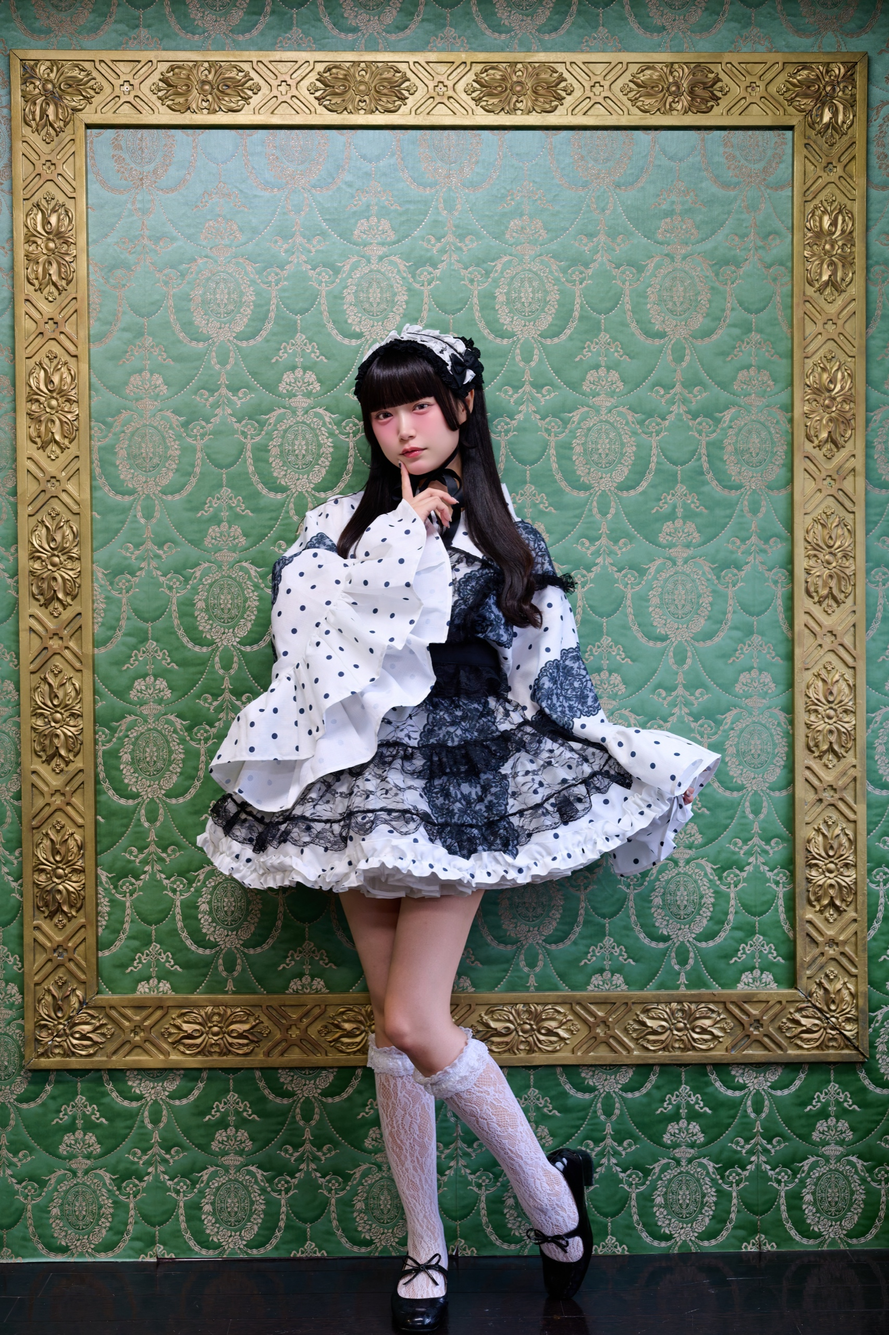
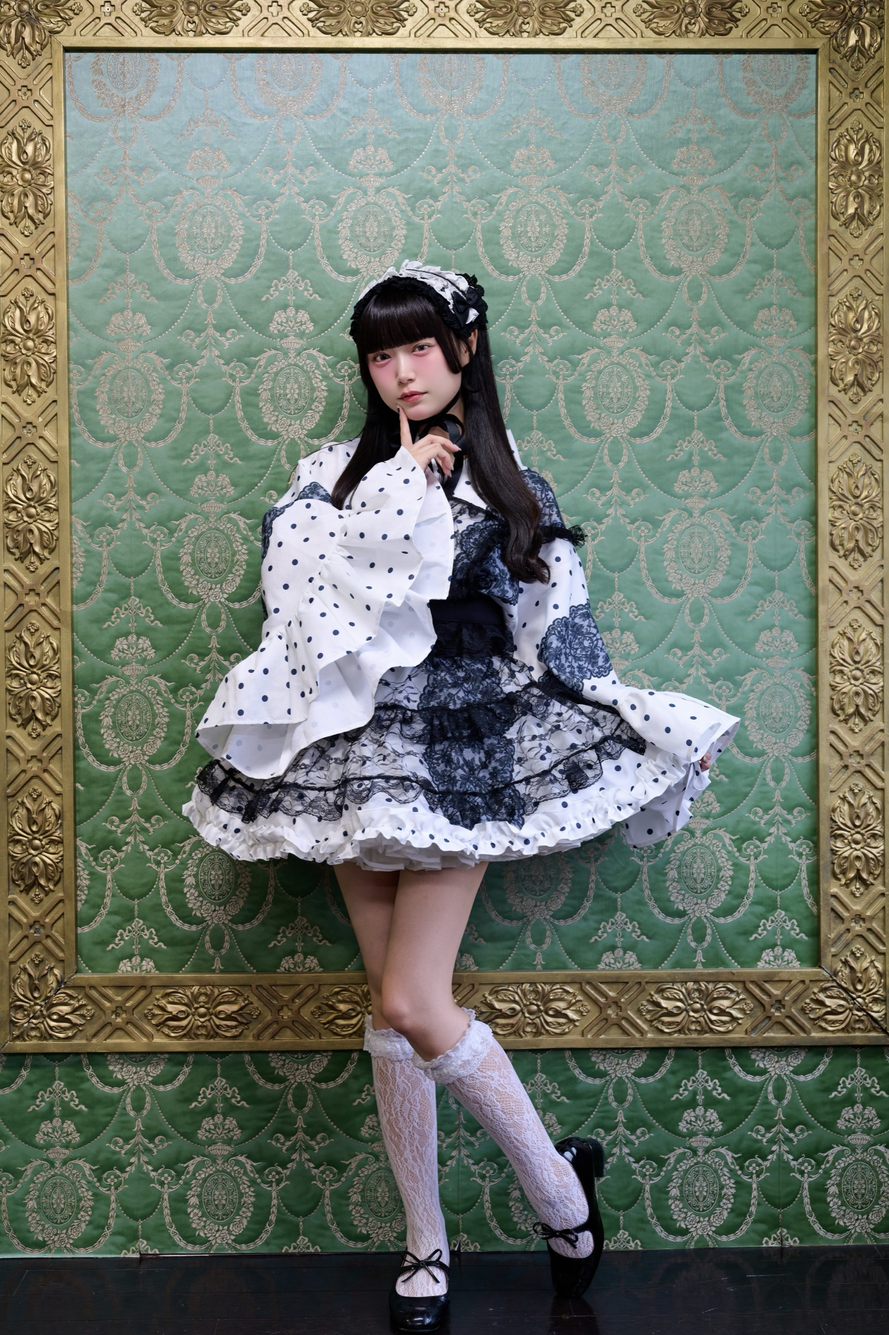
replace Fuwaru20260926-1-01.JPG with updated retouch
新しいマスターが images/ 直下に置かれていたため uploads/ へ移し
（旧マスターを上書き）、export.sh で再書き出し。
寸法がわずかに変化（1706x2560 → 1705x2560）したため series.json を更新。
alt はそのまま同じ内容で問題なし。他19枚は無変更。

diff --git a/works/fuwaru-sp-sep-1/index.html b/works/fuwaru-sp-sep-1/index.html
@@ -41,7 +41,7 @@
       <img src="../../images/thumb/Fuwaru20260926-1-03.JPG" alt="装飾の壁を背に振り返るゴシックロリータ衣装の女性" width="1706" height="2560" loading="eager" decoding="async">
     </a>
     <a class="gallery__item" href="../../images/Fuwaru20260926-1-01.JPG" data-lightbox="../../images/Fuwaru20260926-1-01.JPG" data-alt="金縁の額のそばでスカートを翻す女性">
-      <img src="../../images/thumb/Fuwaru20260926-1-01.JPG" alt="金縁の額のそばでスカートを翻す女性" width="1706" height="2560" loading="lazy" decoding="async">
+      <img src="../../images/thumb/Fuwaru20260926-1-01.JPG" alt="金縁の額のそばでスカートを翻す女性" width="1705" height="2560" loading="lazy" decoding="async">
     </a>
     <a class="gallery__item" href="../../images/Fuwaru20260926-1-02.JPG" data-lightbox="../../images/Fuwaru20260926-1-02.JPG" data-alt="柄の壁の前で口元に指を添える女性">
       <img src="../../images/thumb/Fuwaru20260926-1-02.JPG" alt="柄の壁の前で口元に指を添える女性" width="1706" height="2560" loading="lazy" decoding="async">
